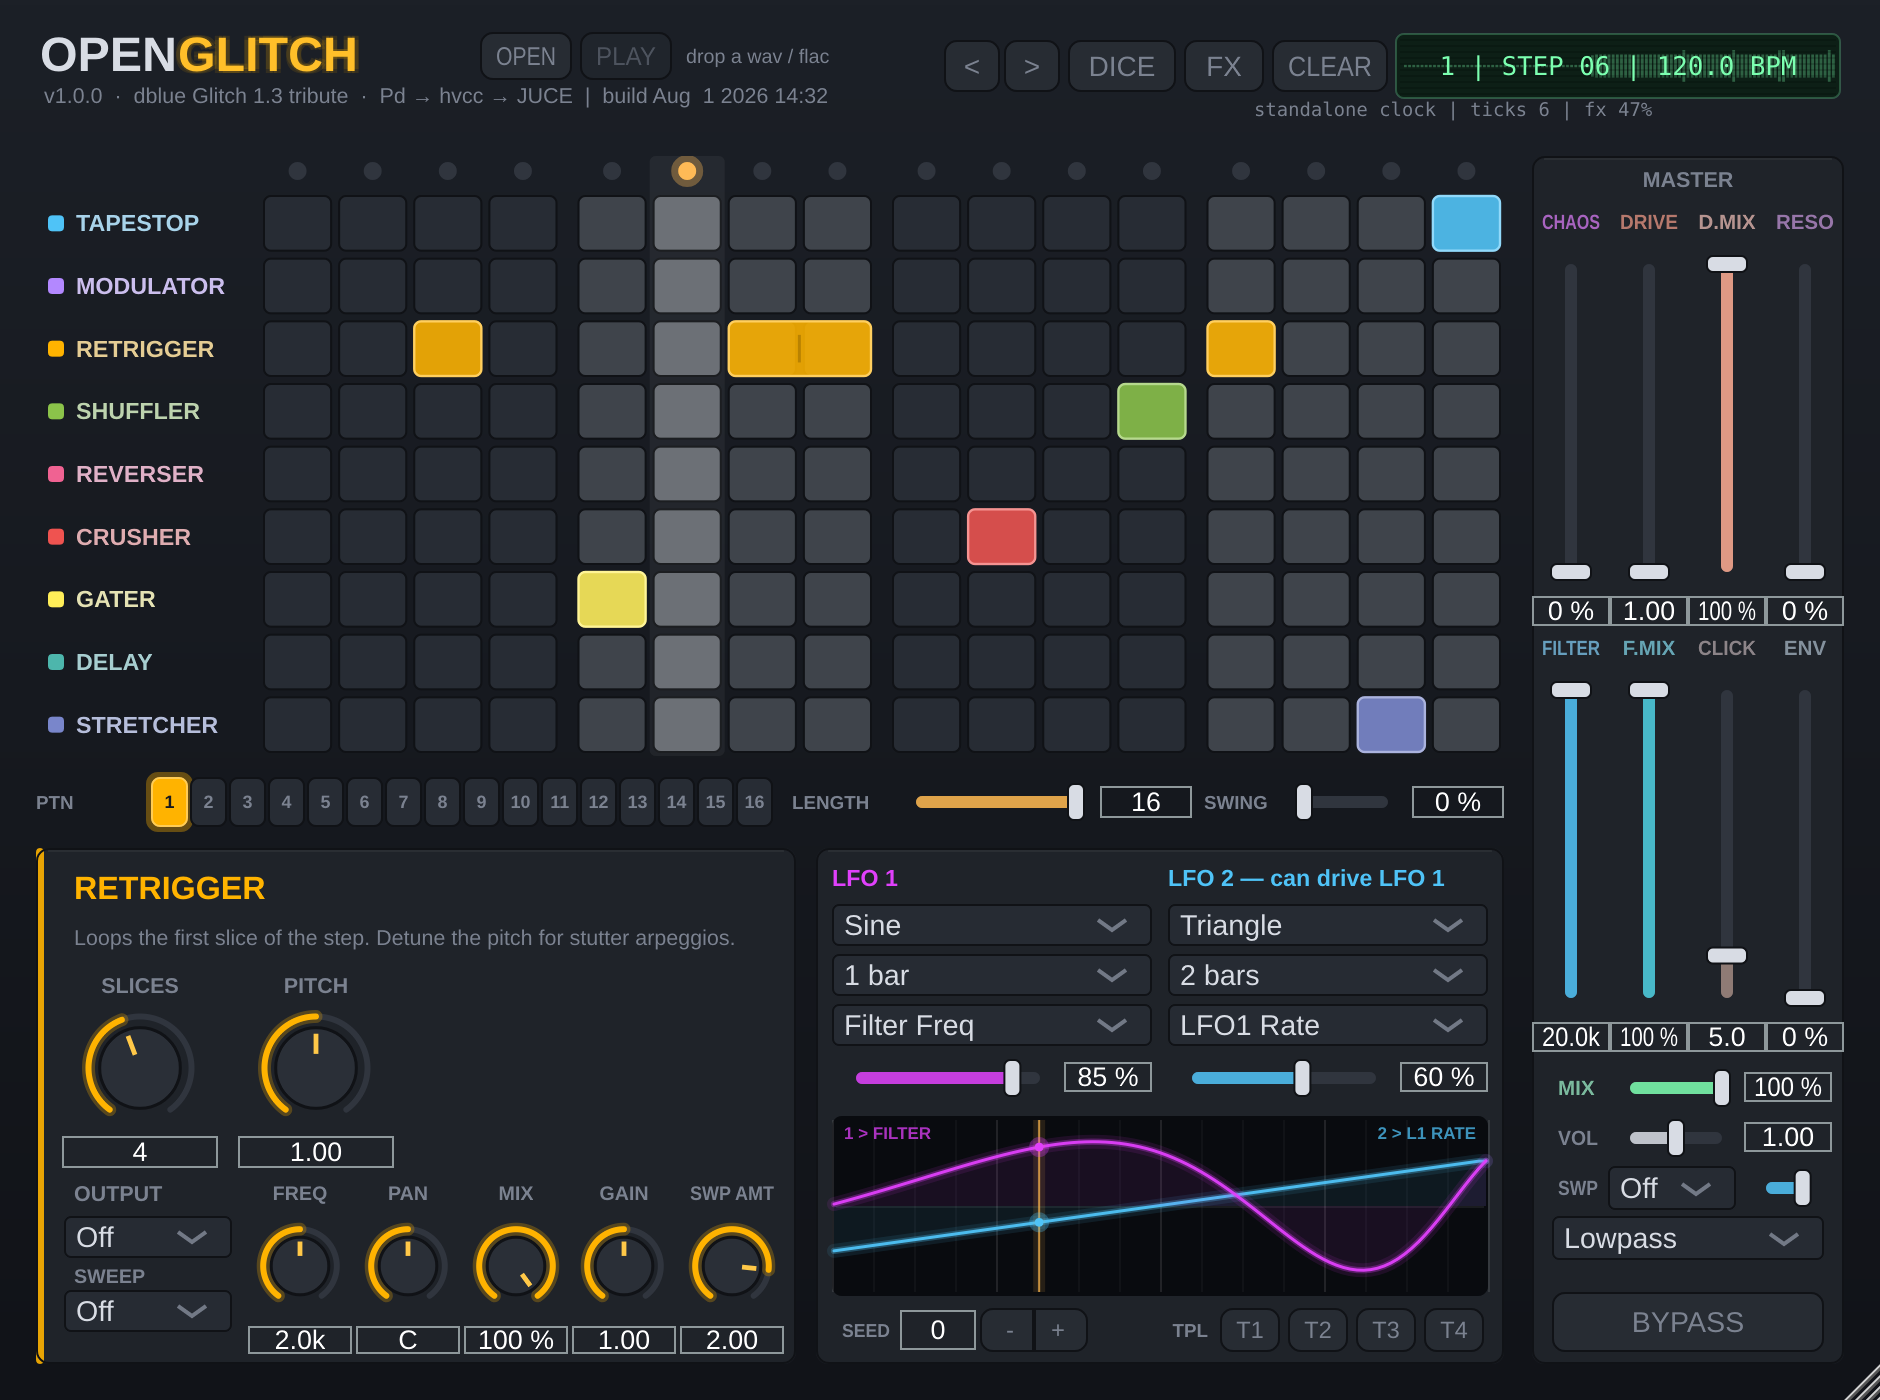
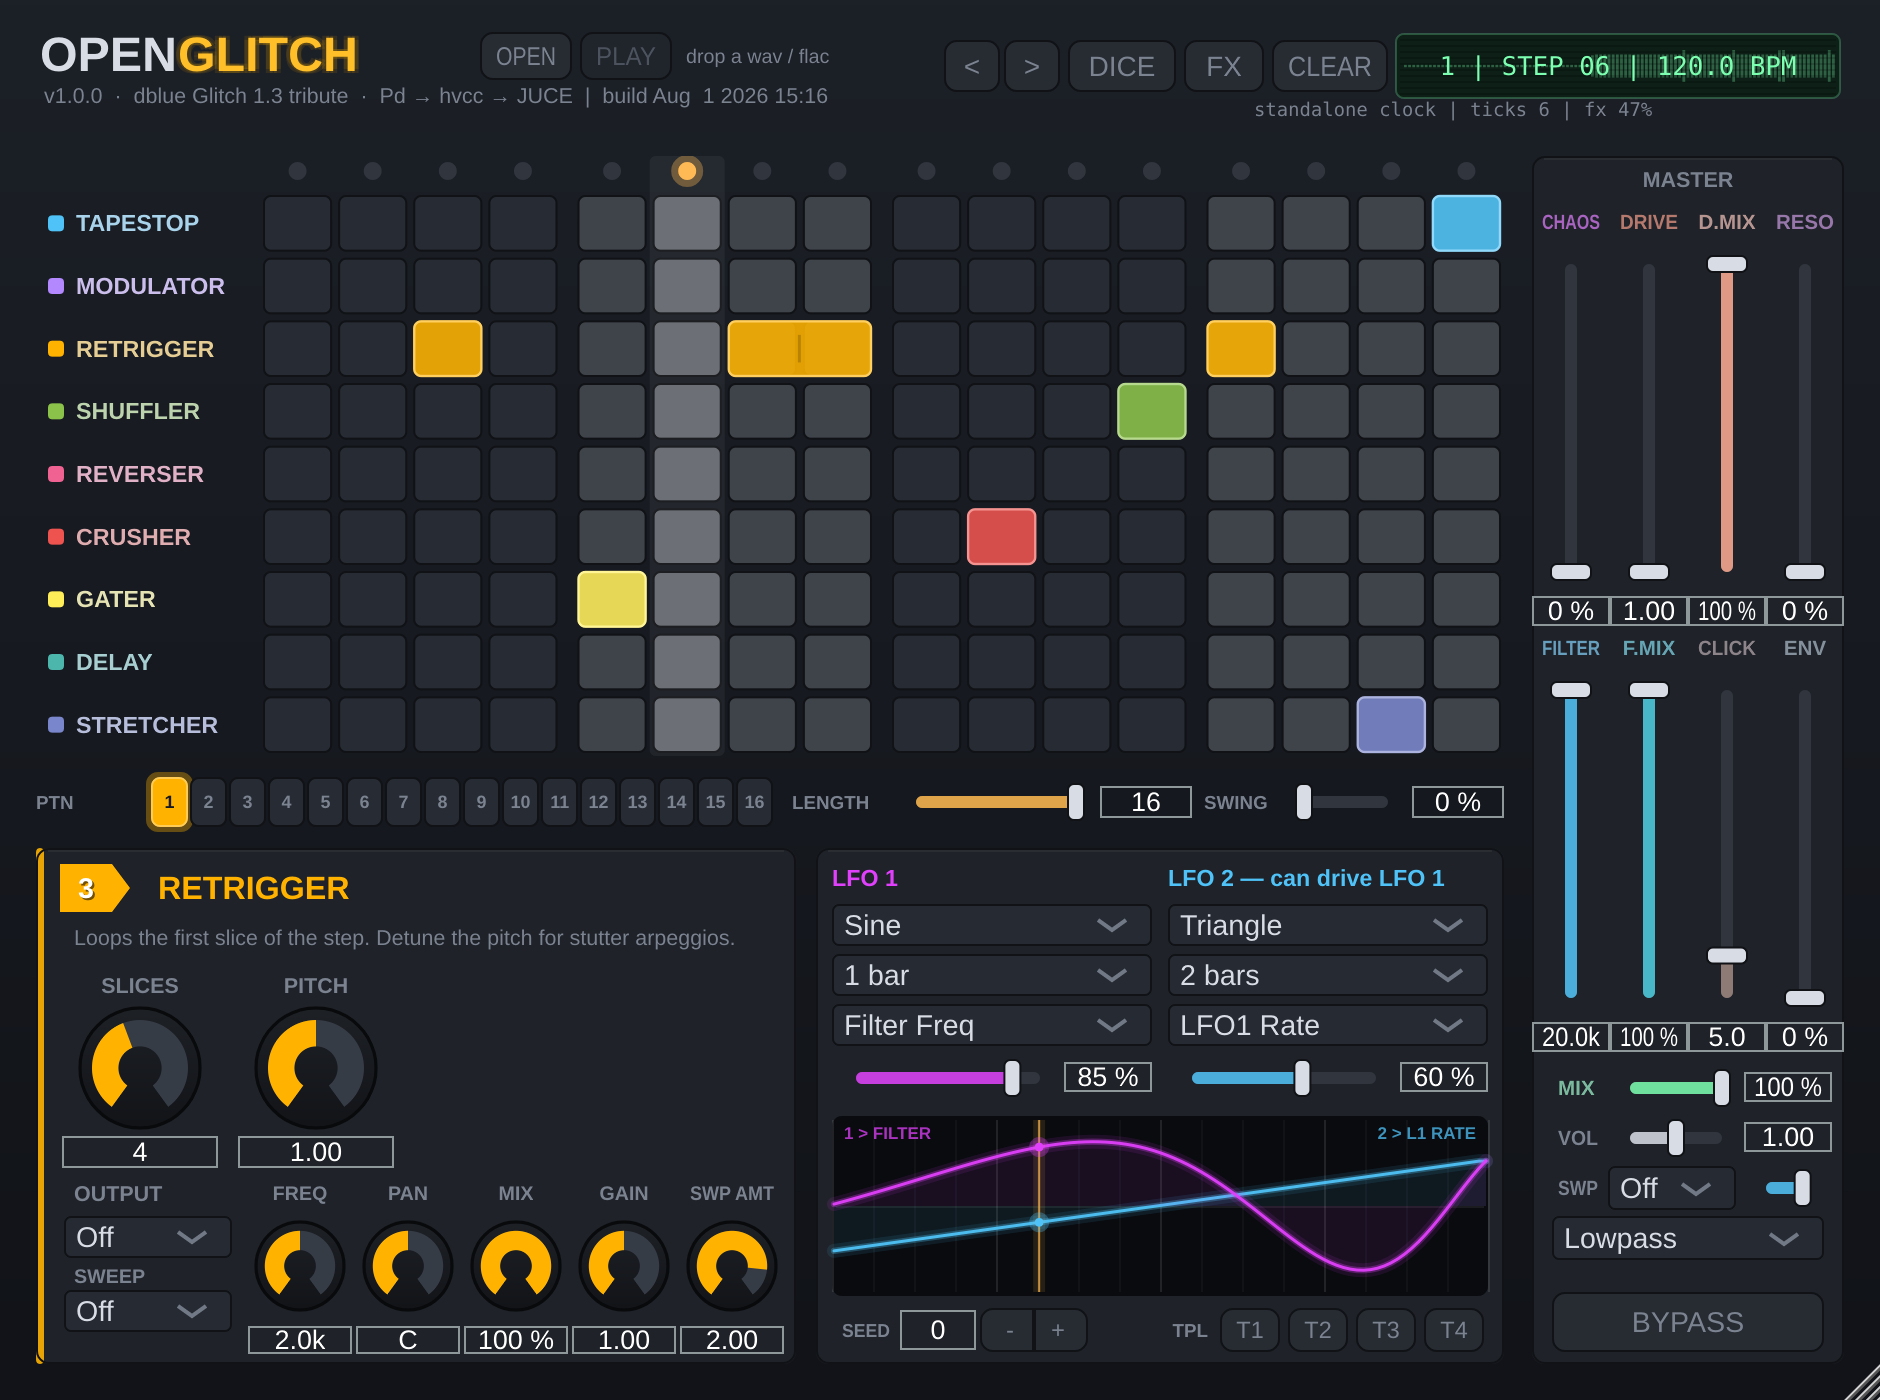
Original-style widgets: donut-wedge knobs and numbered effect flag tab
Rotary sliders now draw like the original Glitch's knobs: a near-black
disc with a thick flat donut wedge from min to the current value (no
needle, no glow), the unfilled ring in visible mid-gray. The wedge keeps
each effect's colour instead of the original's flat gray so the panel
still matches the matrix. The effect panel header gains the original's
colored flag tab with the effect number pointing at the name.

Changed region(s): [[0.1234, 0.86, 0.4319, 0.9521], [0.0309, 0.7064, 0.216, 0.7986], [0.0309, 0.6143, 0.1851, 0.6757]]

diff --git a/src/PluginEditor.cpp b/src/PluginEditor.cpp
@@ -83,38 +83,35 @@ void OpenGlitchLookAndFeel::drawRotarySlider (juce::Graphics& g, int x, int y, i
                                               float rotaryEndAngle, juce::Slider& slider)
 {
     using namespace glitch::palette;
-    auto bounds = juce::Rectangle<int> (x, y, width, height).toFloat().reduced (6.0f);
+    auto bounds = juce::Rectangle<int> (x, y, width, height).toFloat().reduced (4.0f);
     const float radius = juce::jmin (bounds.getWidth(), bounds.getHeight()) * 0.5f;
     const auto centre = bounds.getCentre();
     const float angle = rotaryStartAngle + sliderPos * (rotaryEndAngle - rotaryStartAngle);
     const auto fill = slider.findColour (juce::Slider::rotarySliderFillColourId);
 
-    const float bodyR = radius * 0.72f;
-    g.setColour (juce::Colour (0xff2a2f37));
-    g.fillEllipse (centre.x - bodyR, centre.y - bodyR, bodyR * 2.0f, bodyR * 2.0f);
-    g.setColour (cellStroke);
-    g.drawEllipse (centre.x - bodyR, centre.y - bodyR, bodyR * 2.0f, bodyR * 2.0f, 1.5f);
+    // Original-Glitch-style knob: a near-black disc with a thick flat donut
+    // wedge painted on the face from min to the current value. No needle.
+    const juce::Rectangle<float> face (centre.x - radius, centre.y - radius,
+                                       radius * 2.0f, radius * 2.0f);
+    juce::ColourGradient sheen (juce::Colour (0xff1e2126), centre.x, face.getY(),
+                                juce::Colour (0xff121418), centre.x, face.getBottom(), false);
+    g.setGradientFill (sheen);
+    g.fillEllipse (face);
+    g.setColour (juce::Colour (0xff090a0c));
+    g.drawEllipse (face, 1.6f);
 
-    const float arcR = radius * 0.92f;
+    const auto donut = face.reduced (radius * 0.20f);
+    constexpr float hole = 0.45f; // inner-circle proportion of the wedge
+
     juce::Path track;
-    track.addCentredArc (centre.x, centre.y, arcR, arcR, 0.0f, rotaryStartAngle, rotaryEndAngle, true);
-    g.setColour (juce::Colour (0xff30353e));
-    g.strokePath (track, juce::PathStrokeType (3.0f, juce::PathStrokeType::curved,
-                                               juce::PathStrokeType::rounded));
+    track.addPieSegment (donut, rotaryStartAngle, rotaryEndAngle, hole);
+    g.setColour (juce::Colour (0xff363c46));
+    g.fillPath (track);
 
     juce::Path value;
-    value.addCentredArc (centre.x, centre.y, arcR, arcR, 0.0f, rotaryStartAngle, angle, true);
-    g.setColour (fill.withAlpha (0.25f));
-    g.strokePath (value, juce::PathStrokeType (6.5f, juce::PathStrokeType::curved,
-                                               juce::PathStrokeType::rounded));
+    value.addPieSegment (donut, rotaryStartAngle, angle, hole);
     g.setColour (fill);
-    g.strokePath (value, juce::PathStrokeType (3.0f, juce::PathStrokeType::curved,
-                                               juce::PathStrokeType::rounded));
-
-    const auto tip = centre.getPointOnCircumference (bodyR * 0.85f, angle);
-    const auto tail = centre.getPointOnCircumference (bodyR * 0.35f, angle);
-    g.setColour (fill.brighter (0.4f));
-    g.drawLine ({ tail, tip }, 2.4f);
+    g.fillPath (value);
 }
 
 void OpenGlitchLookAndFeel::drawLinearSlider (juce::Graphics& g, int x, int y, int width, int height,
@@ -777,7 +774,7 @@ void EffectPanel::setEffect (int effectIndex)
 
 void EffectPanel::resized()
 {
-    title.setBounds (14, 8, 220, 24);
+    title.setBounds (56, 8, 220, 24);
     blurb.setFont (juce::Font (juce::FontOptions (12.0f)));
     blurb.setBounds (14, 30, getWidth() - 28, 30);
 
@@ -815,10 +812,27 @@ void EffectPanel::paint (juce::Graphics& g)
     g.fillRoundedRectangle (bounds, 6.0f);
     g.setColour (juce::Colours::white.withAlpha (0.05f));
     g.fillRect (6.0f, 1.0f, bounds.getWidth() - 12.0f, 1.0f);
-    g.setColour (glitch::effectColour (currentEffect).withAlpha (0.9f));
+    const auto colour = glitch::effectColour (currentEffect);
+    g.setColour (colour.withAlpha (0.9f));
     g.fillRoundedRectangle (0.0f, 0.0f, 4.0f, bounds.getHeight(), 2.0f);
     g.setColour (cellStroke);
     g.drawRoundedRectangle (bounds.reduced (0.5f), 6.0f, 1.0f);
+
+    // The original's numbered flag tab, pointing at the effect name.
+    juce::Path tab;
+    tab.startNewSubPath (12.0f, 8.0f);
+    tab.lineTo (38.0f, 8.0f);
+    tab.lineTo (47.0f, 20.0f);
+    tab.lineTo (38.0f, 32.0f);
+    tab.lineTo (12.0f, 32.0f);
+    tab.closeSubPath();
+    g.setColour (colour);
+    g.fillPath (tab);
+    g.setFont (juce::Font (juce::FontOptions (16.0f)).boldened());
+    g.setColour (juce::Colours::black.withAlpha (0.55f));
+    g.drawText (juce::String (currentEffect), 13, 9, 26, 24, juce::Justification::centred);
+    g.setColour (juce::Colours::white);
+    g.drawText (juce::String (currentEffect), 12, 8, 26, 24, juce::Justification::centred);
 }
 
 // ---------------------------------------------------------------------------
